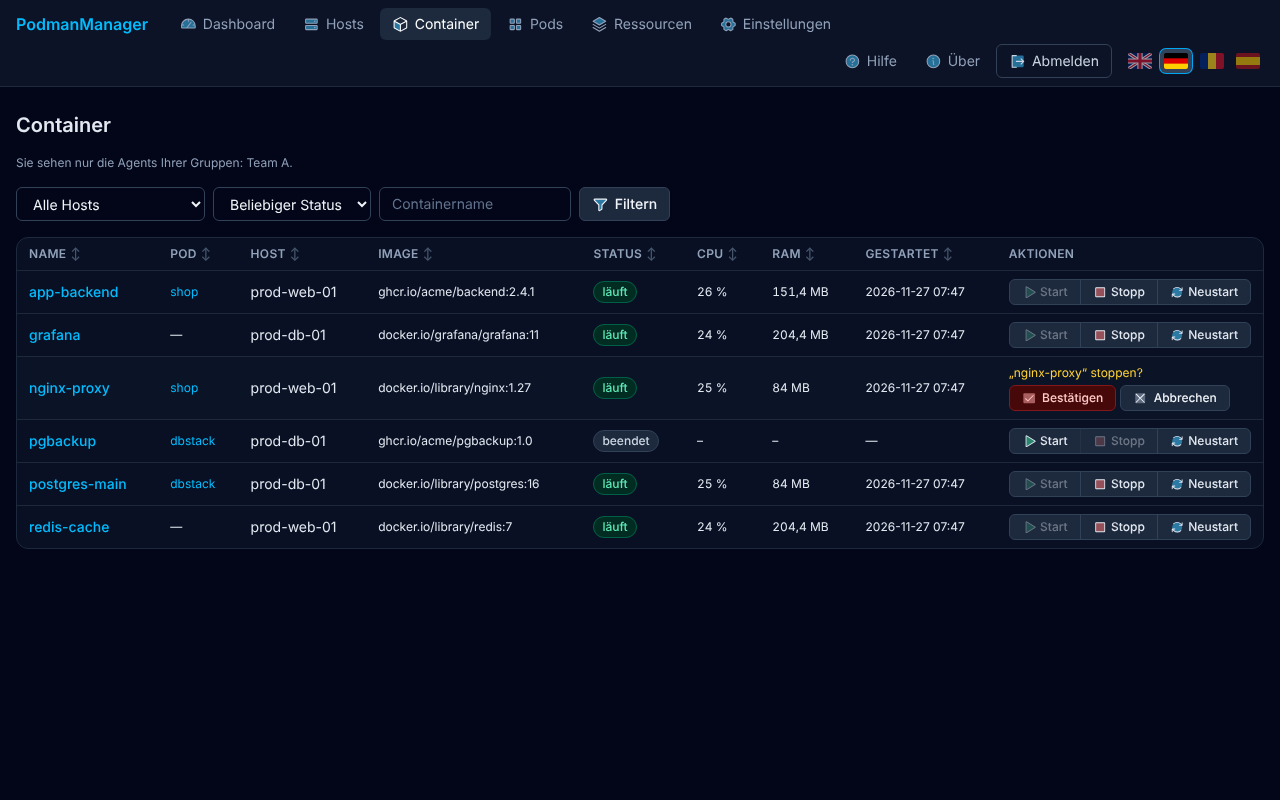
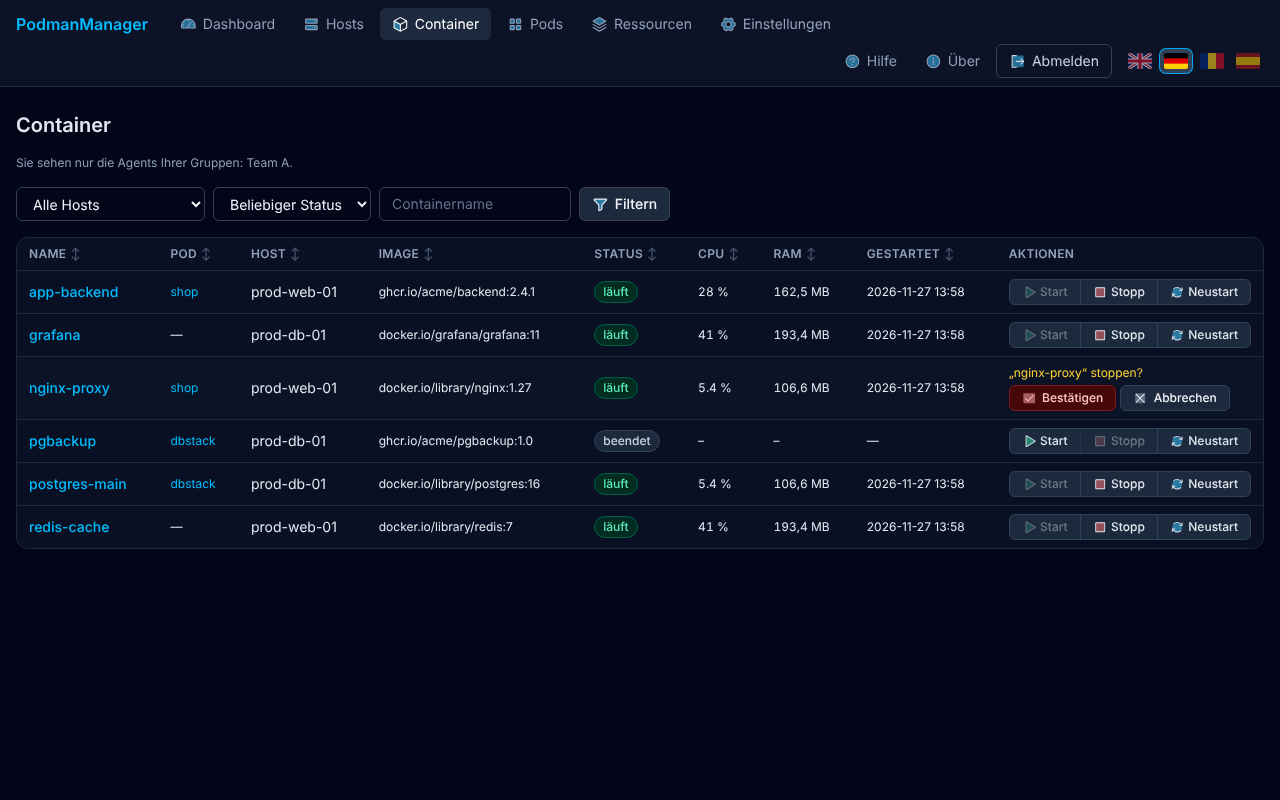
Doku und Screenshots auf den Stand v0.32.7 gebracht (#152)
Doku gegen den Code geprüft, alle Screenshots neu, ein neues Bild für die Agent-Einrichtung.

diff --git a/docs/installation-agent.md b/docs/installation-agent.md
@@ -65,6 +65,7 @@ podman run -d --name podmanmanager-agent --restart=always \
 | `AGENT_HOST` | `0.0.0.0` | Bind-Adresse |
 | `AGENT_PORT` | `9126` | |
 | `PODMAN_SOCKET` | `/run/podman/podman.sock` | Pfad im Container |
+| `PODMAN_TIMEOUT_MS` | `30000` | Zeitlimit für Aufrufe an Podman (1000 bis 120000 ms) |
 | `RATE_LIMIT_MAX` / `RATE_LIMIT_WINDOW_MS` | `10` / `60000` | Fehlversuche pro IP und Fenster |
 | `EXEC_ENABLED` | aus | `true` erlaubt Administratoren des Masters, einzelne Befehle in Containern dieses Hosts auszuführen (siehe [Sicherheit](security.md#befehle-in-containern-ausführen)) |
 | `EXEC_ALLOW` | leer | kommagetrennte Liste erlaubter Programme (z. B. `ls,cat,nginx`); leer = alle |
@@ -92,4 +93,4 @@ Im Master unter *Hosts* → *Einrichtung* auf *Token erneuern* klicken, den neue
 
 ## Versionen
 
-„Container erstellen“, „Pod erstellen“ und die Konfigurations-Tabs in den Container-Details brauchen einen Agent ab **v0.31.0**; für Podman 5 gilt **v0.31.1** oder neuer (Pod-Namen im Inspect, Meldung bei vergebenem Namen). Ältere Agents laufen weiter, melden bei diesen Funktionen aber einen Fehler. Aktualisieren: im Master unter *Hosts* → *Agent aktualisieren* (oder *Alle veralteten Agents aktualisieren*).
+„Container erstellen“, „Pod erstellen“ und die Konfigurations-Tabs in den Container-Details brauchen einen Agent ab **v0.31.0**; für Podman 5 gilt **v0.31.1** oder neuer (Pod-Namen im Inspect, Meldung bei vergebenem Namen). Für **Befehl ausführen** (`EXEC_ENABLED`) gilt v0.32.0, für den Hinweis beim Speicherlimit (`cgroupVersion` und `rootless` in `GET /health`) v0.32.1 und für das **Löschen** von Containern und Pods (Label `PODMAN_SYSTEMD_UNIT`) v0.32.5 bzw. v0.32.6. Ältere Agents laufen weiter, melden bei diesen Funktionen aber einen Fehler oder zeigen den Knopf bzw. Hinweis nicht. Aktualisieren: im Master unter *Hosts* → *Agent aktualisieren* (oder *Alle veralteten Agents aktualisieren*).

diff --git a/README.md b/README.md
@@ -10,12 +10,13 @@ Die Anwendungen laufen als **Container** (kleine, abgeschottete Programmpakete).
 
 - **Überblick:** Welche Server und Anwendungen gibt es, und läuft alles?
 - **Steuern:** Anwendungen starten, stoppen und neu starten (mit Rückfrage).
-- **Anlegen:** Administratoren legen Container und Pods an und bekommen den passenden `podman run`-Befehl, die Quadlet-Datei und das Kubernetes-YAML zum Kopieren; dieselben Texte gibt es für vorhandene Container.
+- **Anlegen und löschen:** Administratoren legen Container und Pods an und bekommen den passenden `podman run`-Befehl, die Quadlet-Datei und das Kubernetes-YAML zum Kopieren; dieselben Texte gibt es für vorhandene Container. Gestoppte Container und Pods, die nicht von systemd (Quadlet) verwaltet werden, lassen sich löschen.
+- **Befehle ausführen:** Einzelne Befehle in einem Container (ohne Shell-Sitzung), nur Administratoren und nur auf Hosts, bei denen der Agent es erlaubt (`EXEC_ENABLED`, standardmäßig aus).
 - **Nachlesen:** Meldungen (Logs) einer Anwendung lesen und sehen, wie stark sie Prozessor, Arbeitsspeicher, Netzwerk und Festplatte nutzt.
 - **Aufräumen:** Programmpakete (Images), Netzwerke und Datenspeicher (Volumes) auf den Servern ansehen; Administratoren können Unbenutztes löschen.
 - **Für alle Geräte:** Die Oberfläche gibt es auf Deutsch, Englisch, Rumänisch und Spanisch und passt sich dem Handy an.
 
-PodmanManager **ändert keine bestehenden Container**. Administratoren können neue Container und leere Pods anlegen (nur benannte Volumes, kein privilegierter Modus, keine Host-Pfade). Das hält es einfach und sicher.
+PodmanManager **ändert keine bestehenden Container**. Administratoren können neue Container und leere Pods anlegen (nur benannte Volumes, kein privilegierter Modus, keine Host-Pfade) und gestoppte Container und Pods ohne systemd löschen. Das hält es einfach und sicher.
 
 ## So funktioniert es
 

diff --git a/docs/api.md b/docs/api.md
@@ -34,6 +34,11 @@ Container-IDs: Hex, 12–64 Zeichen (`^[a-f0-9]{12,64}$`), sonst `400 INVALID_ID
 | POST | `/pods/:id/stop` | Pod stoppen (Timeout fest 10 s) |
 | POST | `/pods/:id/restart` | Pod neustarten |
 | DELETE | `/pods/:id` | gestoppten Pod samt Infra-Container und allen Containern löschen, wenn er nicht von systemd/Quadlet verwaltet wird (siehe unten) |
+| GET | `/volumes` | alle Volumes: `name`, `driver`, `createdAt`, `size` (Byte, `null` wenn nicht rechtzeitig ermittelt), `unused`, `anonymous` |
+| DELETE | `/volumes/:name` | Volume löschen (nicht, wenn ein Container es nutzt: `409 VOLUME_IN_USE`) |
+| GET | `/networks` | alle Netzwerke: `name`, `id`, `driver`, `subnets`, `internal`, `dnsEnabled`, `ipv6`, `containers` (angeschlossene laufende), `protected` |
+| DELETE | `/networks/:name` | Netzwerk löschen (das Standardnetzwerk `podman` ist geschützt: `409 NETWORK_PROTECTED`; genutzte: `409 NETWORK_IN_USE`) |
+| GET | `/stats` | Auslastung (CPU, RAM, Netzwerk, Platte) der laufenden Container; auf Hosts ohne cgroup v2 `STATS_UNAVAILABLE` |
 | GET | `/system/storage` | vom Podman-Speicher belegter Platz (Images, Container, Volumes), 60 s im Agent zwischengespeichert |
 | GET / POST | `/system/update` | Selbst-Update: GET liefert `{possible, reason?, image, tag, state}`, POST (202) zieht das eigene Image neu und beendet den Prozess, damit systemd den Container aus dem neuen Image neu erstellt; 409 `UPDATE_NOT_POSSIBLE` mit Grund (`pinned_tag`, `not_systemd`, `no_container`, `inspect_failed`) |
 | GET / POST | `/system/update-peer` | nur mit `UPDATE_UNIT`: Update des Containers dieser Quadlet-Unit (Master): zieht dessen Image neu und stoppt ihn, systemd erstellt ihn aus dem neuen Image neu; Antworten wie `/system/update` (ohne `UPDATE_UNIT` 404) |

diff --git a/docs/installation-master.md b/docs/installation-master.md
@@ -60,6 +60,8 @@ Der Master kann den Podman-Socket seines eigenen Hosts direkt nutzen; ein Agent-
 
 Quadlet: im Master die auskommentierten Zeilen `Wants=podman.socket` und `After=podman.socket` (im Abschnitt `[Unit]`) sowie `Volume=%t/podman/podman.sock:…`, `Environment=LOCAL_PODMAN_SOCKET=…`, `UserNS=keep-id:uid=1000,gid=1000` und (SELinux) `SecurityLabelDisable=true` aktivieren. **Der Podman-Socket muss laufen:** `systemctl --user enable --now podman.socket` (einmalig; ohne ihn scheitert der Start mit `statfs /run/user/<UID>/podman/podman.sock: no such file or directory`, Exit-Code 125). Ohne Quadlet: `-v $XDG_RUNTIME_DIR/podman/podman.sock:/run/podman/podman.sock --userns=keep-id:uid=1000,gid=1000 -e LOCAL_PODMAN_SOCKET=/run/podman/podman.sock`. Wichtig: nicht `--userns=keep-id --user $(id -u)` wie beim Agent verwenden. Der Master-Container schreibt in `/data`, das dem Benutzer `node` (UID 1000) gehört; mit einer anderen UID startet er nicht (`unable to open database file`). `keep-id:uid=1000,gid=1000` bildet Ihren Host-Benutzer auf diese UID ab, sodass Socket und `/data` zugänglich sind. Geprüft mit Podman 5.8.2 (rootless, Image im Container gebaut und gestartet); ältere Podman-Versionen unterstützen die Optionen `uid`/`gid` von `keep-id` eventuell nicht.
 
+Für den lokalen Host gelten die Agent-Einstellungen aus der Umgebung des Masters: `EXEC_ENABLED=true` schaltet „Befehl ausführen“ für diesen Host ein (Standard: aus), `EXEC_ALLOW` begrenzt die Programme (siehe [Sicherheit](security.md#befehle-in-containern-ausführen)).
+
 **Typische Fehler beim Start mit lokalem Host (Rocky/RHEL mit SELinux, rootless Podman)**
 
 | Meldung | Ursache und Lösung |

diff --git a/deployment/dockerhub/README.agent.md b/deployment/dockerhub/README.agent.md
@@ -1,6 +1,6 @@
 # PodmanManager Agent
 
-Lightweight agent for [PodmanManager](https://github.com/PetreHoffmann/PodmanManager) (Apache-2.0). It talks **only** to the local **rootless Podman unix socket** of its own user and offers a small authenticated HTTP API (port 9126) to the Master: list containers, start, stop, restart. No shell, no arbitrary Podman commands, no dependencies, never runs as root.
+Lightweight agent for [PodmanManager](https://github.com/PetreHoffmann/PodmanManager) (Apache-2.0). It talks **only** to the local **rootless Podman unix socket** of its own user and offers a small authenticated HTTP API (port 9126) to the Master: list and inspect containers, pods, images, networks and volumes, start, stop, restart, logs and metrics. On request of a Master administrator it also creates containers and pods (strictly validated: named volumes only, no privileged mode, no host paths), deletes stopped containers and pods that systemd does not manage, and, only if you switch it on with `EXEC_ENABLED=true`, runs single commands in a container. No shell session, no arbitrary Podman commands, no dependencies, never runs as root.
 
 The agent runs as a **rootless container** (Quadlet for permanent operation, `podman run` to try it out). It needs the rootless socket mounted and must run as the Podman user's UID.
 

diff --git a/docs/benutzerhandbuch.md b/docs/benutzerhandbuch.md
@@ -122,6 +122,10 @@ Unter **Hosts** sehen Sie jeden Rechner, den Sie sehen dürfen, in einer Zeile:
 
 Die Spalten sind **sortierbar** (siehe [Kapitel 3](#3-die-oberfläche-im-überblick)). Als Benutzer können Sie hier **nichts ändern**, nur ansehen. Rechner einrichten, deren Adresse ändern und die Hilfsprogramme aktualisieren (einzeln oder alle auf einmal) sind Administratoren vorbehalten.
 
+**Einen neuen Rechner einrichten (nur Administratoren):** Über der Liste steht der Knopf **Neuen Agent einrichten**. Er öffnet eine eigene Seite, auf der Sie die Adresse des Rechners und einen Namen (Agent-ID) eintragen. Der Master erzeugt Token und Hash und zeigt danach fertige Dateien und Befehle zum Kopieren (Reiter **Quadlet**, **Quadlet + Secret**, **podman run** und **Hash**). Ein bereits laufender Agent lässt sich darunter manuell registrieren.
+
+![Neuen Agent einrichten](screenshots/handbuch/20-agent-einrichten.png)
+
 Sehen Sie in der Spalte **Speicher** statt Zahlen einen **orangefarbenen Text** oder nur einen Strich, kann der Rechner den Wert gerade nicht ermitteln. Das beeinträchtigt Ihre Anwendungen nicht. Melden Sie es Ihrem Administrator und geben Sie den angezeigten Text weiter.
 
 ## 6. Container: Ihre Anwendungen

diff --git a/deployment/dockerhub/README.master.md b/deployment/dockerhub/README.master.md
@@ -1,6 +1,6 @@
 # PodmanManager Master
 
-Central web UI for managing **rootless Podman** containers on multiple Linux hosts: view, start, stop and restart containers. Part of [PodmanManager](https://github.com/PetreHoffmann/PodmanManager) (Apache-2.0).
+Central web UI for managing **rootless Podman** containers on multiple Linux hosts: view, start, stop and restart containers and pods; administrators can also create containers and pods (with `podman run`, Quadlet and Kube YAML to copy), delete stopped ones that systemd does not manage, and set up new agents. Part of [PodmanManager](https://github.com/PetreHoffmann/PodmanManager) (Apache-2.0).
 
 The Master talks over HTTP to lightweight **PodmanManager Agents** (`petrecalinoiu/podmanmanager-agent`) installed on each host. UI languages: English, German, Romanian, Spanish.
 
